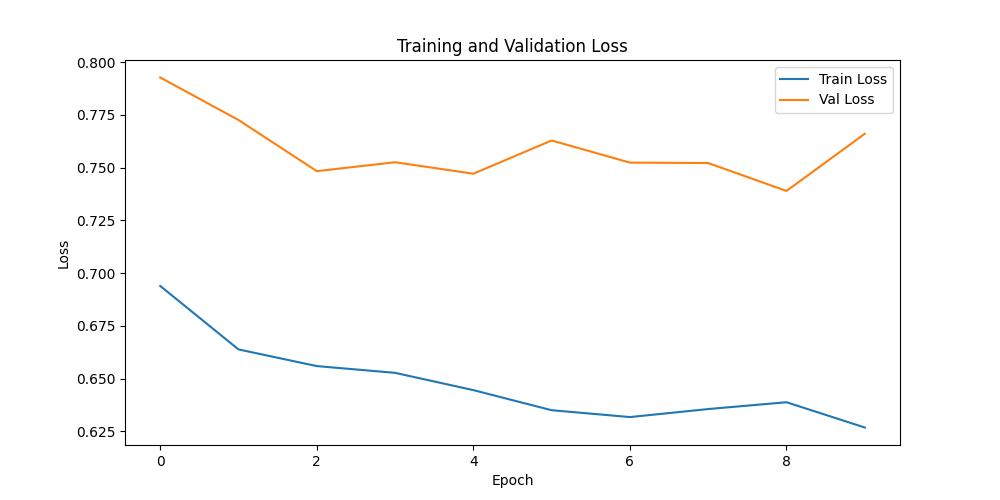
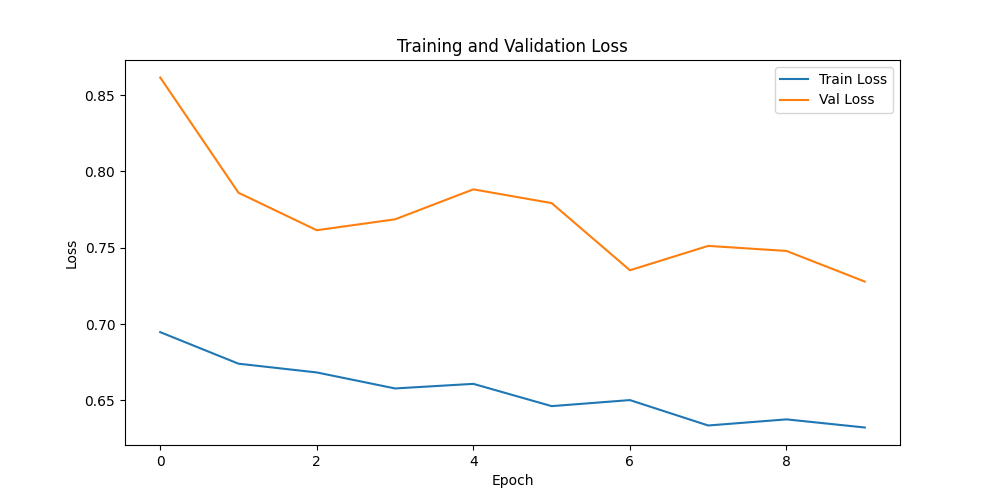
new traing method, it well adjust lighting and adds augmentation for better training

diff --git a/train.py b/train.py
@@ -3,6 +3,8 @@ import segmentation_models_pytorch as smp
 import cv2
 import numpy as np
 import os
+import albumentations as A
+from albumentations.pytorch import ToTensorV2
 from torch.utils.data import DataLoader, Dataset
 import matplotlib.pyplot as plt
 
@@ -18,6 +20,19 @@ class CropDataset(Dataset):
         self.dataset_path = dataset_path
         self.images = os.listdir(os.path.join(dataset_path, "field_images/rgb"))
         self.images.sort()
+        self.transform = A.Compose(
+            [
+                A.HorizontalFlip(p=0.5),
+                A.VerticalFlip(p=0.5),
+                A.RandomRotate90(p=0.5),
+                A.RandomBrightnessContrast(p=0.3),
+                A.Normalize(
+                    mean=(0.485, 0.456, 0.406), 
+                    std=(0.229, 0.224, 0.225)
+                ),
+                ToTensorV2()
+            ]
+        )
     def __len__(self):
         return len(self.images)
     def __getitem__(self, index):
@@ -45,12 +60,14 @@ class CropDataset(Dataset):
                 mask[anomoly_mask == 255] = class_id  #creates a true or false grid, true if anomoly exists
 
         #reorders the grid and converst to a tensor
-        image = torch.tensor(image).permute(2, 0, 1).float() / 255.0
-        mean = torch.tensor([0.485, 0.456, 0.406]).view(3, 1, 1)
-        std = torch.tensor([0.229, 0.224, 0.225]).view(3, 1, 1)
-        image = (image - mean) / std
-        mask = torch.tensor(mask).long()
-
+       # image = torch.tensor(image).permute(2, 0, 1).float() / 255.0
+      #  mean = torch.tensor([0.485, 0.456, 0.406]).view(3, 1, 1)
+       # std = torch.tensor([0.229, 0.224, 0.225]).view(3, 1, 1)
+       # image = (image - mean) / std
+       # mask = torch.tensor(mask).long()
+        augmented = self.transform(image = image, mask = mask)
+        image = augmented["image"]
+        mask = augmented["mask"].long()
         return image, mask
 
 if __name__ == "__main__":
